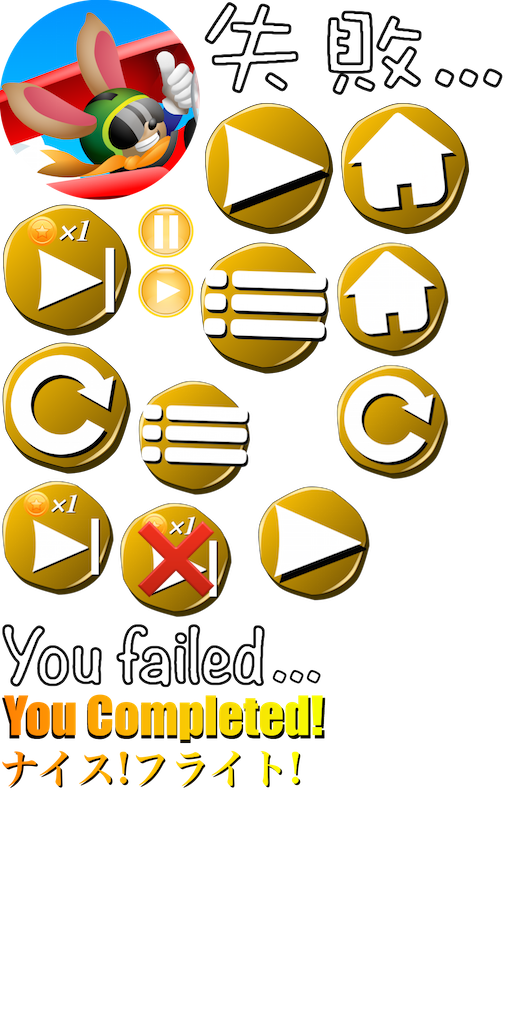
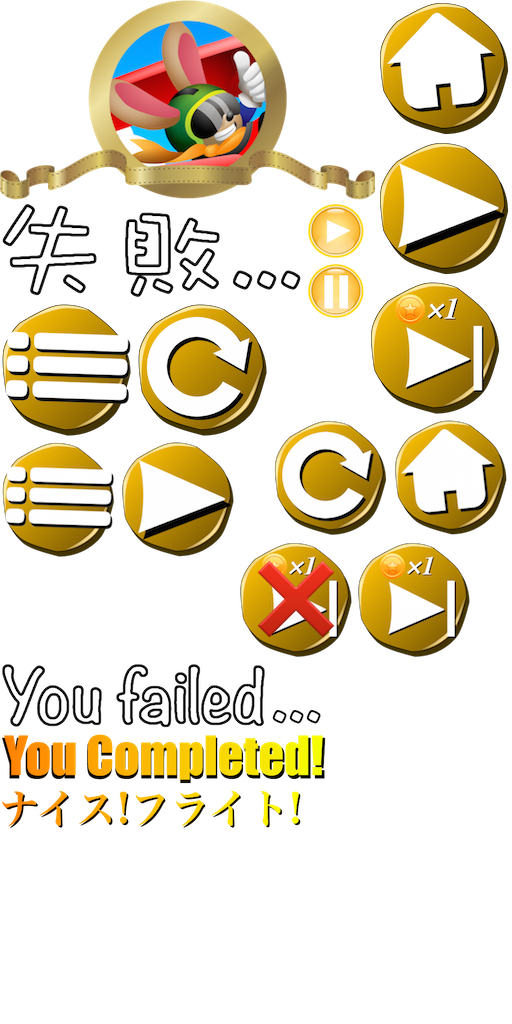
リザルトレイヤー修正

diff --git a/CreditScene.m b/CreditScene.m
@@ -143,8 +143,13 @@ CCScrollView* scrollView;
     label.fontColor=[CCColor blackColor];
     [bgSpLayer addChild:label];
 
-    label=[CCLabelTTF labelWithString:@"Premium Pixels - www.premiumpixels.com" fontName:@"Verdana-Bold" fontSize:10];
+    label=[CCLabelTTF labelWithString:@"Frame Design - frames-design.com" fontName:@"Verdana-Bold" fontSize:10];
     label.position=ccp(winSize.width/2,logo.position.y-460);
+    label.fontColor=[CCColor blackColor];
+    [bgSpLayer addChild:label];
+
+    label=[CCLabelTTF labelWithString:@"Premium Pixels - www.premiumpixels.com" fontName:@"Verdana-Bold" fontSize:10];
+    label.position=ccp(winSize.width/2,logo.position.y-480);
     label.fontColor=[CCColor blackColor];
     [bgSpLayer addChild:label];
     
@@ -155,27 +160,27 @@ CCScrollView* scrollView;
     //サウンド
     //===================
     label=[CCLabelTTF labelWithString:@"Sound by" fontName:@"Verdana-Italic" fontSize:12];
-    label.position=ccp(winSize.width/2,logo.position.y-510);
+    label.position=ccp(winSize.width/2,logo.position.y-530);
     label.fontColor=[CCColor blackColor];
     [bgSpLayer addChild:label];
     
     label=[CCLabelTTF labelWithString:@"甘茶の音楽工房 - amachamusic.chagasi.com" fontName:@"Verdana-Bold" fontSize:10];
-    label.position=ccp(winSize.width/2,logo.position.y-540);
-    label.fontColor=[CCColor blackColor];
-    [bgSpLayer addChild:label];
-    
-    label=[CCLabelTTF labelWithString:@"効果音ラボ - soundeffect-lab.info" fontName:@"Verdana-Bold" fontSize:10];
     label.position=ccp(winSize.width/2,logo.position.y-560);
     label.fontColor=[CCColor blackColor];
     [bgSpLayer addChild:label];
     
-    label=[CCLabelTTF labelWithString:@"くらげ工匠 - www.kurage-kosho.info" fontName:@"Verdana-Bold" fontSize:10];
+    label=[CCLabelTTF labelWithString:@"効果音ラボ - soundeffect-lab.info" fontName:@"Verdana-Bold" fontSize:10];
     label.position=ccp(winSize.width/2,logo.position.y-580);
+    label.fontColor=[CCColor blackColor];
+    [bgSpLayer addChild:label];
+    
+    label=[CCLabelTTF labelWithString:@"くらげ工匠 - www.kurage-kosho.info" fontName:@"Verdana-Bold" fontSize:10];
+    label.position=ccp(winSize.width/2,logo.position.y-600);
     label.fontColor=[CCColor blackColor];
     [bgSpLayer addChild:label];
 
     label=[CCLabelTTF labelWithString:@"Senses Circuit - www.senses-circuit.com" fontName:@"Verdana-Bold" fontSize:10];
-    label.position=ccp(winSize.width/2,logo.position.y-600);
+    label.position=ccp(winSize.width/2,logo.position.y-620);
     label.fontColor=[CCColor blackColor];
     [bgSpLayer addChild:label];
 
@@ -184,12 +189,12 @@ CCScrollView* scrollView;
     //サンクス！
     //===================
     label=[CCLabelTTF labelWithString:@"Special Thanks! " fontName:@"Verdana-Italic" fontSize:20];
-    label.position=ccp(winSize.width/2,logo.position.y-650);
+    label.position=ccp(winSize.width/2,logo.position.y-670);
     label.fontColor=[CCColor blackColor];
     [bgSpLayer addChild:label];
     
     label=[CCLabelTTF labelWithString:@"ありがとう! " fontName:@"Verdana-Italic" fontSize:20];
-    label.position=ccp(winSize.width/2,logo.position.y-680);
+    label.position=ccp(winSize.width/2,logo.position.y-700);
     label.fontColor=[CCColor blackColor];
     [bgSpLayer addChild:label];
 

diff --git a/ResultLayer.m b/ResultLayer.m
@@ -41,7 +41,17 @@ CGSize winSize;
     [[CCSpriteFrameCache sharedSpriteFrameCache]removeSpriteFrames];
     [[CCSpriteFrameCache sharedSpriteFrameCache] addSpriteFramesWithFile:@"navi_default.plist"];
     
+    //ウィン画像表示
+    if(judgFlg){
+        CCSprite* winImage=[CCSprite spriteWithSpriteFrame:
+                            [[CCSpriteFrameCache sharedSpriteFrameCache]spriteFrameByName:@"win.png"]];
+        winImage.scale=0.7;
+        winImage.position=ccp(winSize.width/2,winSize.height-(winImage.contentSize.height*winImage.scale)/2 -10);
+        [self addChild:winImage];
+    }
+    
     //リザルトメッセージ
+    CCSprite* result;
     CCSpriteFrame* resultFrame;
     if(judgFlg){
         if([GameManager getLocal]==0){
@@ -49,29 +59,20 @@ CGSize winSize;
         }else{
             resultFrame=[[CCSpriteFrameCache sharedSpriteFrameCache]spriteFrameByName:@"complete_en.png"];
         }
+        result=[CCSprite spriteWithSpriteFrame:resultFrame];
+        result.position=ccp(winSize.width/2,winSize.height/2);
     }else{
         if([GameManager getLocal]==0){
             resultFrame=[[CCSpriteFrameCache sharedSpriteFrameCache]spriteFrameByName:@"failed_jp.png"];
         }else{
             resultFrame=[[CCSpriteFrameCache sharedSpriteFrameCache]spriteFrameByName:@"failed_en.png"];
         }
-    }
-    CCSprite* result=[CCSprite spriteWithSpriteFrame:resultFrame];
-    result.position=ccp(winSize.width/2,winSize.height/2 +20);
-    if(!judgFlg){
+        result=[CCSprite spriteWithSpriteFrame:resultFrame];
+        result.position=ccp(winSize.width/2,winSize.height/2 +20);
         result.rotation=7.0;
     }
     [self addChild:result];
 
-    //ウィン画像表示
-    if(judgFlg){
-        CCSprite* winImage=[CCSprite spriteWithSpriteFrame:
-                        [[CCSpriteFrameCache sharedSpriteFrameCache]spriteFrameByName:@"win.png"]];
-        winImage.scale=0.5;
-        winImage.position=ccp(winSize.width/2,result.position.y+(result.contentSize.height*result.scale)/2+(winImage.contentSize.height*winImage.scale)/2 -20);
-        [self addChild:winImage];
-    }
-    
     //タイトルへ
     CCButton* titleButton=[CCButton buttonWithTitle:@""
                 spriteFrame:[[CCSpriteFrameCache sharedSpriteFrameCache]spriteFrameByName:@"home_a.png"]
